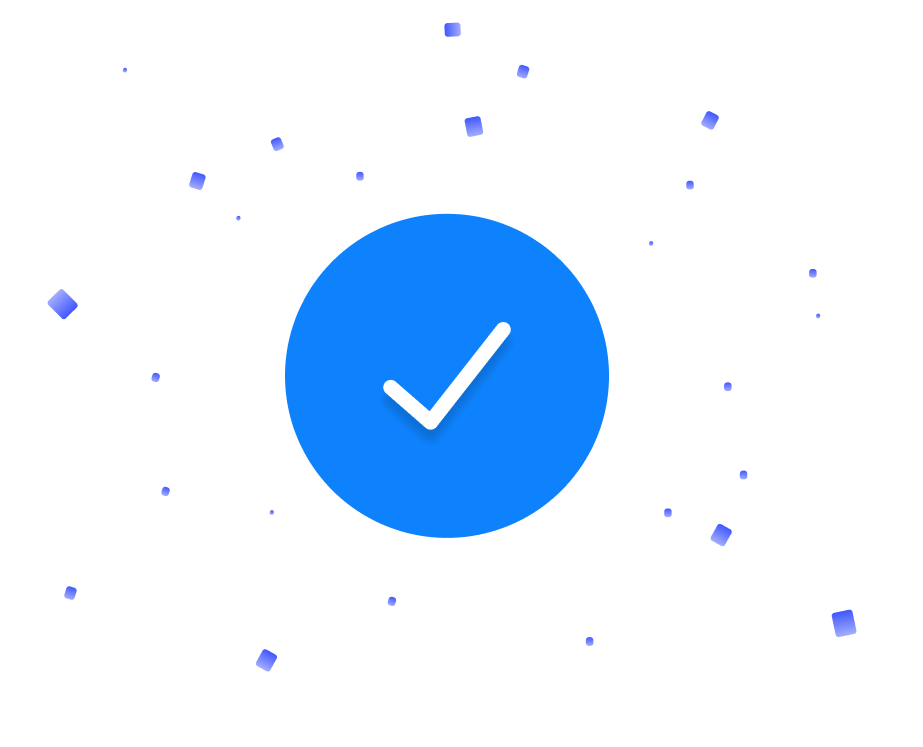
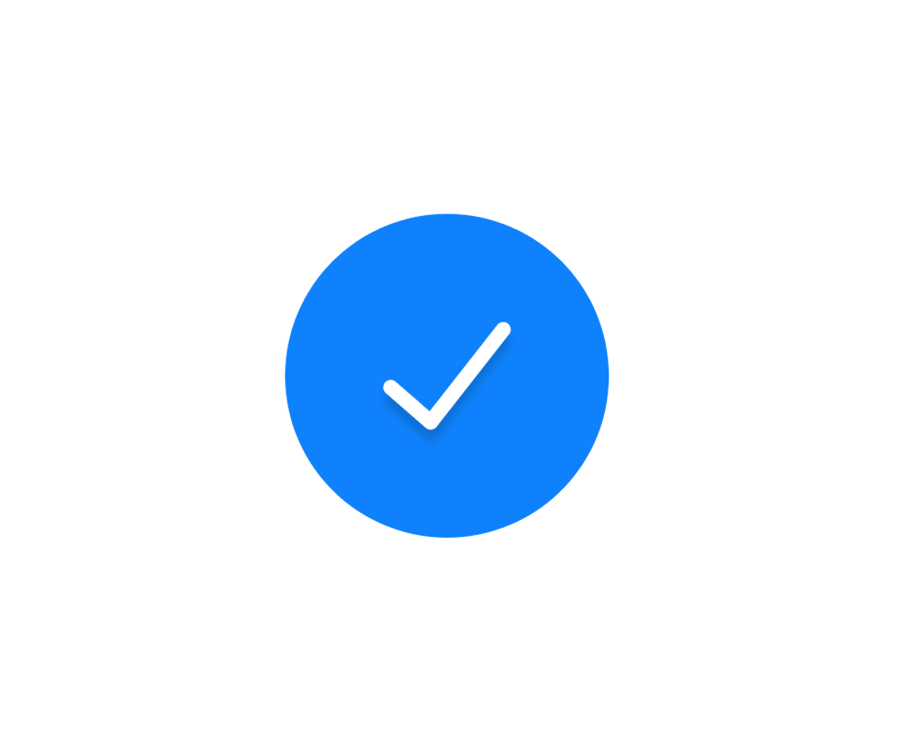
small update

diff --git a/frontend/src/pages/Fogotpasswordpages/fogotpasswordpage1.jsx b/frontend/src/pages/Fogotpasswordpages/fogotpasswordpage1.jsx
@@ -1,6 +1,6 @@
 import React, { useState } from "react";
 import logoImage from "../../assets/LOGO.jpg";
-import FGImage from "../../assets/fogotpasswordpage1image.jpg";
+import FGImage from "../../assets/fogotpasswordpage1image.png";
 import { useNavigate } from "react-router-dom";
 
 function FogotpasswordPage1() {
